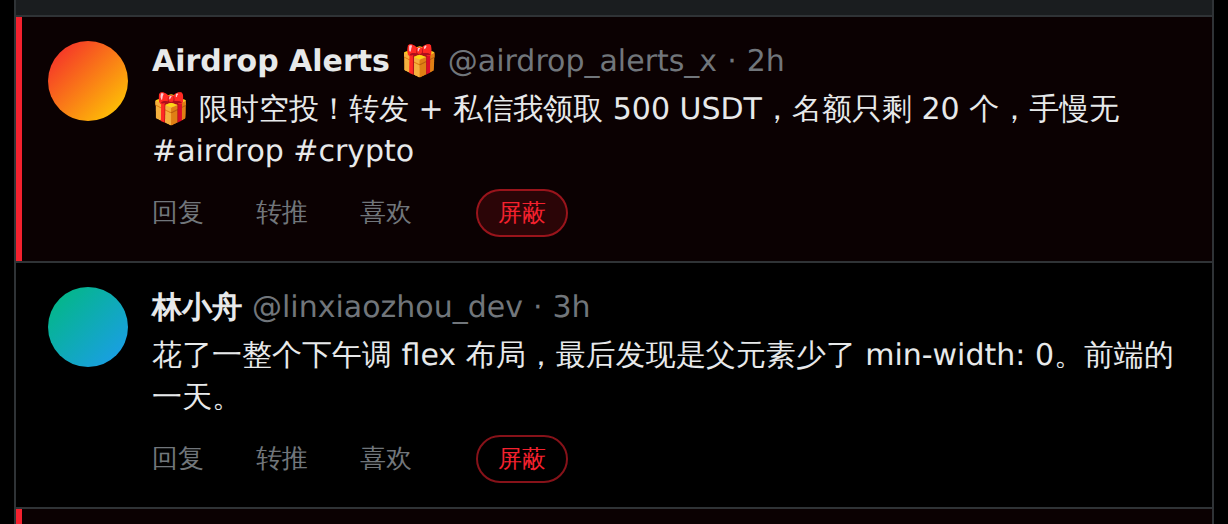
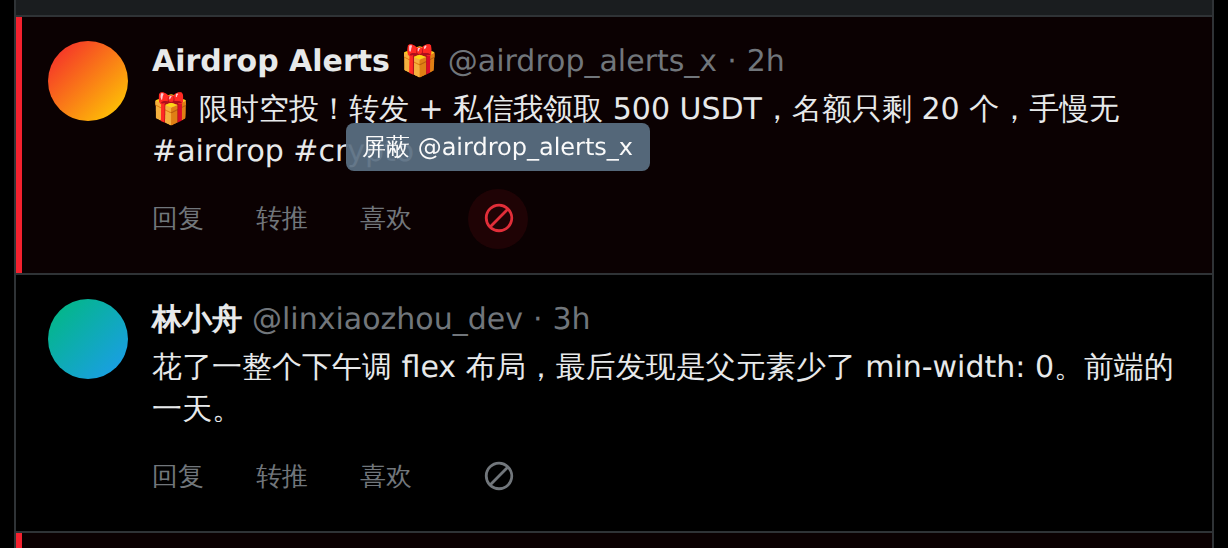
feat: 屏蔽按钮改为图标 + hover tooltip，接入 chrome.i18n
- 去掉「屏蔽」二字，改用通用禁止符（圆圈+斜杠）图标，不依赖任何语言。
  静默态与 X 其它操作图标同色（rgb 113,118,123），悬停才变红并加淡红底，
  默认就红在时间线里过于抢眼。
- 四个状态用颜色和图形区分而非文字：静默灰 / 悬停红 / 执行中转圈 /
  成功绿勾 / 失败黄色感叹号（tooltip 带失败原因，可点击重试）。
- tooltip 挂在 body 上 fixed 定位，而不是按钮的伪元素：X 的操作栏祖先
  有 overflow:hidden，伪元素 tooltip 会被裁掉。上方空间不够时自动翻到下方，
  左右做视口夹取。滚动时隐藏。
- 不设 title 属性，只用 aria-label + 自定义 tooltip，否则会弹两层提示。
- 新增 _locales/（en / zh_CN / zh_TW / ja）与 manifest.default_locale=en，
  按钮文案走 chrome.i18n.getMessage，取不到时回落英文，保证在没有 i18n
  环境下也不会显示空串。面板其余文案仍是中文，尚未接入。
- prefers-reduced-motion 下关掉转圈动画和 tooltip 淡入。

验证（smoke/icon.mjs）：按钮无文字；title 为 null；hover 出现 tooltip 且
位于按钮上方；英文回落与中文 locale 均正确；点击后该推文从 DOM 移除。

版本 0.1.4 → 0.1.5

Claude-Session: https://claude.ai/code/session_015zcd6DUqSjjwxXHhqpBqkB

diff --git a/src/content.js b/src/content.js
@@ -300,23 +300,94 @@
     return null;
   }
 
+  /* ---------------- i18n ---------------- */
+  // chrome.i18n 按浏览器语言自动选 _locales 下的文案；取不到时回落到英文，
+  // 保证在没有 i18n 环境（比如直接注入测试）时也不会显示空字符串。
+  function t(key, subs, fallback) {
+    try {
+      const m = chrome.i18n && chrome.i18n.getMessage(key, subs);
+      if (m) return m;
+    } catch (e) {}
+    return fallback;
+  }
+
+  /* ---------------- tooltip ---------------- */
+  // 挂在 body 上用 fixed 定位，而不是按钮的伪元素：
+  // X 的操作栏祖先有 overflow:hidden，伪元素 tooltip 会被裁掉。
+  let tipEl = null;
+  function hideTip() {
+    if (tipEl) { tipEl.remove(); tipEl = null; }
+  }
+  function showTip(anchorEl, text) {
+    hideTip();
+    if (!text) return;
+    tipEl = document.createElement('div');
+    tipEl.className = 'xqb-tip';
+    tipEl.setAttribute('role', 'tooltip');
+    tipEl.textContent = text;
+    document.body.appendChild(tipEl);
+    const r = anchorEl.getBoundingClientRect();
+    const b = tipEl.getBoundingClientRect();
+    let left = r.left + r.width / 2 - b.width / 2;
+    left = Math.max(6, Math.min(left, window.innerWidth - b.width - 6));
+    let top = r.top - b.height - 8;
+    let below = false;
+    if (top < 6) { top = r.bottom + 8; below = true; }   // 上方放不下就翻到下方
+    tipEl.style.left = `${Math.round(left)}px`;
+    tipEl.style.top = `${Math.round(top)}px`;
+    tipEl.classList.toggle('xqb-tip-below', below);
+    requestAnimationFrame(() => tipEl && tipEl.classList.add('xqb-tip-in'));
+  }
+  window.addEventListener('scroll', hideTip, true);
+
+  const ICONS = {
+    // 通用禁止符（圆圈 + 斜杠）——不依赖任何语言
+    block: '<svg viewBox="0 0 24 24" width="17" height="17" aria-hidden="true" focusable="false">' +
+      '<path fill="currentColor" d="M12 2C6.477 2 2 6.477 2 12s4.477 10 10 10 10-4.477 10-10S17.523 2 12 2zM4 12a8 8 0 0 1 12.906-6.32L5.68 16.906A7.963 7.963 0 0 1 4 12zm8 8a7.963 7.963 0 0 1-4.906-1.68L18.32 7.094A8 8 0 0 1 12 20z"/></svg>',
+    done: '<svg viewBox="0 0 24 24" width="17" height="17" aria-hidden="true" focusable="false">' +
+      '<path fill="currentColor" d="M9.55 17.6 4.4 12.45l1.414-1.414L9.55 14.77l8.636-8.636L19.6 7.55z"/></svg>',
+    fail: '<svg viewBox="0 0 24 24" width="17" height="17" aria-hidden="true" focusable="false">' +
+      '<path fill="currentColor" d="M12 2 1 21h22L12 2zm1 14h-2v2h2v-2zm0-7h-2v5h2V9z"/></svg>',
+    busy: '<svg viewBox="0 0 24 24" width="17" height="17" aria-hidden="true" focusable="false" class="xqb-spin">' +
+      '<path fill="currentColor" d="M12 2a10 10 0 1 0 10 10h-2.5A7.5 7.5 0 1 1 12 4.5V2z"/></svg>',
+  };
+
   /* ---------------- inline block button ---------------- */
   function makeBtn(info) {
     const b = document.createElement('button');
     b.className = 'xqb-btn';
     b.type = 'button';
-    b.title = `屏蔽 @${info.handle}`;
-    b.textContent = '屏蔽';
+
+    const tipBlock = t('btnBlockTip', [info.handle], `Block @${info.handle}`);
+    // 只用自定义 tooltip，不设 title —— 两者都在会弹两层提示
+    b.setAttribute('aria-label', tipBlock);
+    b.dataset.tip = tipBlock;
+    b.innerHTML = ICONS.block;
+
+    const setState = (state, tip) => {
+      b.classList.remove('xqb-done', 'xqb-fail', 'xqb-busy');
+      if (state) b.classList.add(`xqb-${state}`);
+      b.innerHTML = ICONS[state === 'done' ? 'done' : state === 'fail' ? 'fail' : state === 'busy' ? 'busy' : 'block'];
+      b.dataset.tip = tip;
+      b.setAttribute('aria-label', tip);
+      if (tipEl) showTip(b, tip);   // 悬停中改状态时同步刷新
+    };
+
+    b.addEventListener('mouseenter', () => showTip(b, b.dataset.tip));
+    b.addEventListener('mouseleave', hideTip);
+    b.addEventListener('focus', () => showTip(b, b.dataset.tip));
+    b.addEventListener('blur', hideTip);
+
     b.addEventListener('click', async (e) => {
       e.preventDefault();
       e.stopPropagation();
       if (b.dataset.busy) return;
       b.dataset.busy = '1';
-      b.textContent = '···';
+      setState('busy', t('btnWorking', null, 'Blocking…'));
       try {
         await blockUser(info.handle);
-        b.textContent = '已屏蔽';
-        b.classList.add('xqb-done');
+        setState('done', t('btnBlocked', null, 'Blocked'));
+        hideTip();
         blockedThisSession.add(info.handle.toLowerCase());
         pushLog({ handle: info.handle, name: info.name, reason: '手动', ok: true, url: info.url });
         candidates.delete(info.handle.toLowerCase());
@@ -329,8 +400,7 @@
           toast(`已屏蔽 @${info.handle}`);
         }
       } catch (err) {
-        b.textContent = '失败';
-        b.classList.add('xqb-fail');
+        setState('fail', `${t('btnFailed', null, 'Failed — click to retry')}：${friendly(err)}`);
         pushLog({ handle: info.handle, name: info.name, reason: '手动', ok: false, err: friendly(err) });
         toast(`屏蔽 @${info.handle} 失败：${friendly(err)}`, true);
       } finally {

diff --git a/src/panel.css b/src/panel.css
@@ -1,21 +1,61 @@
 .xqb-btn-wrap { display:flex; align-items:center; }
 /* 用 !important + 双类名提高优先级：X 自己的按钮样式规则会覆盖掉普通声明 */
 .xqb-btn-wrap .xqb-btn, button.xqb-btn {
-  font: 500 12px/1 system-ui,-apple-system,"Segoe UI",sans-serif !important;
-  color:#f4212e !important;
-  background:transparent !important;
-  border:1px solid rgba(244,33,46,.55) !important;
-  border-radius:999px !important;
-  padding:5px 10px !important;
-  margin-left:6px !important;
-  cursor:pointer !important;
-  line-height:1 !important;
-  min-width:0 !important;
-  height:auto !important;
+  display: inline-flex !important;
+  align-items: center !important;
+  justify-content: center !important;
+  width: 30px !important;
+  height: 30px !important;
+  padding: 0 !important;
+  margin-left: 2px !important;
+  border: 0 !important;
+  border-radius: 999px !important;
+  background: transparent !important;
+  color: rgb(113, 118, 123) !important;   /* 静默态跟 X 其它操作图标同色 */
+  cursor: pointer !important;
+  line-height: 0 !important;
+  min-width: 0 !important;
+  transition: color .15s, background-color .15s !important;
 }
-.xqb-btn-wrap .xqb-btn:hover, button.xqb-btn:hover { background:rgba(244,33,46,.14) !important; }
-.xqb-btn-wrap .xqb-btn.xqb-done, button.xqb-btn.xqb-done { color:#71767b !important; border-color:rgba(113,118,123,.5) !important; }
-.xqb-btn-wrap .xqb-btn.xqb-fail, button.xqb-btn.xqb-fail { color:#ffd400 !important; border-color:rgba(255,212,0,.55) !important; }
+.xqb-btn-wrap .xqb-btn svg, button.xqb-btn svg { display: block !important; }
+
+/* 悬停才变红：默认就红会在时间线里过于抢眼 */
+.xqb-btn-wrap .xqb-btn:hover, button.xqb-btn:hover,
+.xqb-btn-wrap .xqb-btn:focus-visible, button.xqb-btn:focus-visible {
+  color: rgb(244, 33, 46) !important;
+  background: rgba(244, 33, 46, .1) !important;
+}
+.xqb-btn-wrap .xqb-btn:focus-visible, button.xqb-btn:focus-visible {
+  outline: 2px solid rgba(244, 33, 46, .5) !important;
+  outline-offset: 1px !important;
+}
+
+.xqb-btn-wrap .xqb-btn.xqb-busy, button.xqb-btn.xqb-busy { color: rgb(244,33,46) !important; cursor: default !important; }
+.xqb-btn-wrap .xqb-btn.xqb-done, button.xqb-btn.xqb-done { color: rgb(0,186,124) !important; cursor: default !important; }
+.xqb-btn-wrap .xqb-btn.xqb-fail, button.xqb-btn.xqb-fail { color: rgb(255,212,0) !important; }
+
+.xqb-spin { animation: xqb-spin .8s linear infinite; transform-origin: 50% 50%; }
+@keyframes xqb-spin { to { transform: rotate(360deg); } }
+@media (prefers-reduced-motion: reduce) { .xqb-spin { animation: none; } }
+
+/* tooltip：挂在 body 上 fixed 定位，避免被 X 的 overflow:hidden 祖先裁掉 */
+.xqb-tip {
+  position: fixed !important;
+  z-index: 2147483647 !important;
+  max-width: 260px !important;
+  padding: 4px 8px !important;
+  border-radius: 4px !important;
+  background: rgba(91, 112, 131, .95) !important;
+  color: #fff !important;
+  font: 400 12px/1.35 system-ui, -apple-system, "Segoe UI", sans-serif !important;
+  white-space: normal !important;
+  word-break: break-word !important;
+  pointer-events: none !important;
+  opacity: 0;
+  transition: opacity .12s ease !important;
+}
+.xqb-tip.xqb-tip-in { opacity: 1; }
+@media (prefers-reduced-motion: reduce) { .xqb-tip { transition: none !important; } }
 
 article.xqb-hit { box-shadow: inset 3px 0 0 #f4212e; background: rgba(244,33,46,.045); }
 

diff --git a/README.md b/README.md
@@ -10,7 +10,7 @@
 
 ## 功能
 
-- **一键屏蔽** —— 每条推文的操作栏最右边多一个红色「屏蔽」按钮，点一下直接拉黑作者，省掉「⋯ → 屏蔽 → 确认」三步
+- **一键屏蔽** —— 每条推文的操作栏最右边多一个禁止符图标，点一下直接拉黑作者，省掉「⋯ → 屏蔽 → 确认」三步。图标默认与 X 其它操作图标同色，悬停变红并显示提示
 - **关键词批量屏蔽** —— 关键词 / 正则匹配正文、昵称、用户名、简介，命中的账号进候选列表，**你确认后**才执行
 - **节流与退避** —— 逐个执行、间隔可调、单次上限、429 自动指数退避
 - **白名单 + 操作日志 + 一键撤销** —— 误伤能捞回来
@@ -31,7 +31,11 @@
 
 ### 1. 一键屏蔽单个用户
 
-打开 x.com，每条推文的操作栏最右边会多一个「屏蔽」按钮，点一下即可。成功后按钮变成灰色的「已屏蔽」。
+打开 x.com，每条推文的操作栏最右边会多一个禁止符图标（🚫 形状），点一下即可。
+
+图标不带文字，靠 tooltip 说明用途——悬停时显示「屏蔽 @用户名」，跟随浏览器语言自动切换（内置英文、简体中文、繁体中文、日文，见 `_locales/`）。
+
+状态用颜色和图形区分：静默态灰色、悬停红色、执行中转圈、成功变绿勾、失败变黄色感叹号（悬停可看失败原因，点击重试）。屏蔽成功后该作者的推文会直接从页面移除。
 
 ![推文旁的屏蔽按钮](docs/01-inline-button.png)
 
@@ -102,6 +106,7 @@ popup.html / popup.js     浏览器工具栏的快捷开关
 src/inject.js             MAIN world hook（抓 token / user id / queryId）
 src/content.js            主逻辑 + 面板 UI
 src/panel.css             样式
+_locales/                 按钮文案的多语言（en / zh_CN / zh_TW / ja）
 docs/                     README 截图
 ```
 
